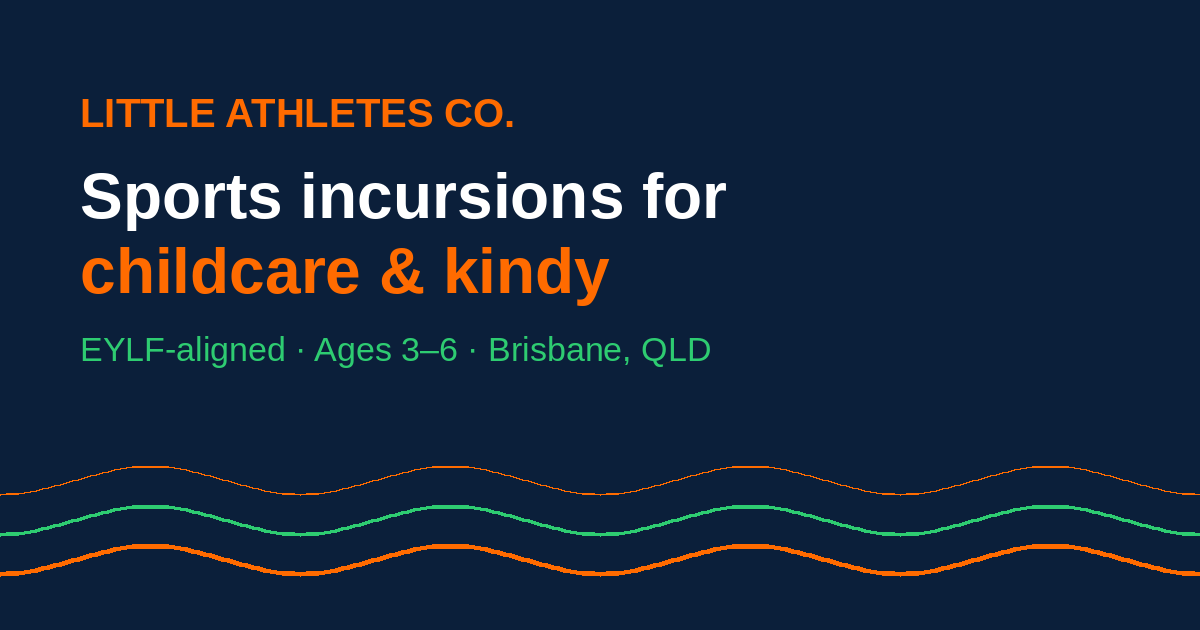
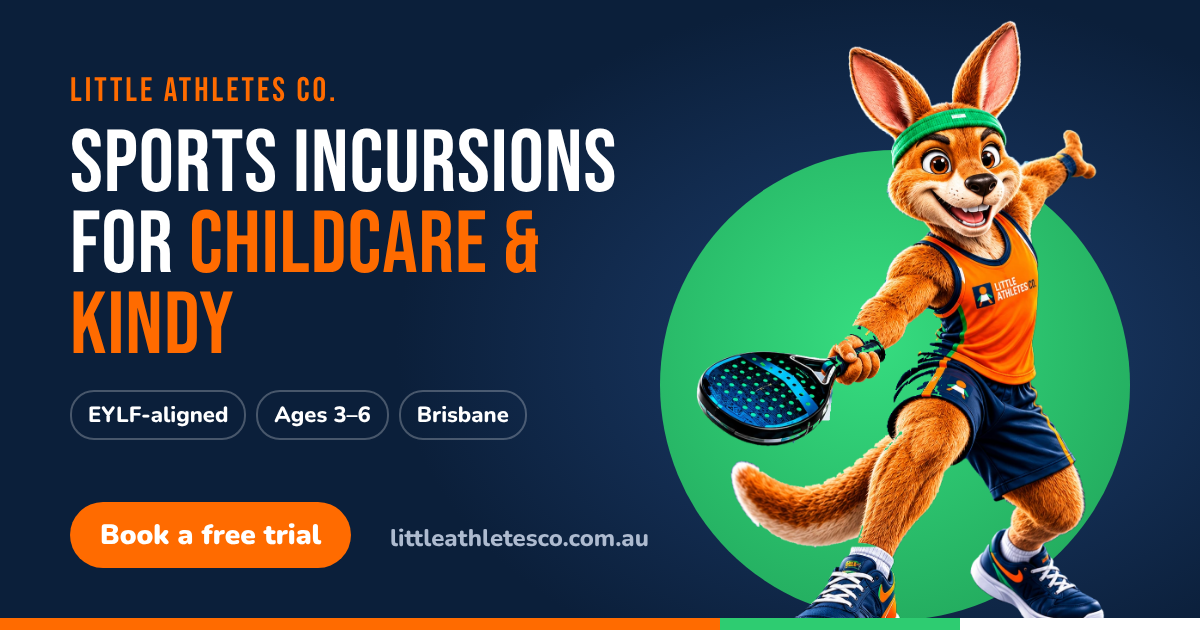
QA pass: new share image with mascot, shorter meta description, remove unused asset, sitemap date
Claude-Session: https://claude.ai/code/session_012xNJdSNKHRnMvVVeKyKEUj

diff --git a/index.html b/index.html
@@ -4,7 +4,7 @@
 <meta charset="UTF-8"/>
 <meta name="viewport" content="width=device-width, initial-scale=1.0"/>
 <title>Childcare Sports Incursions Brisbane | Little Athletes Co.</title>
-<meta name="description" content="Weekly, EYLF-aligned sports incursions for childcare centres and kindys in Brisbane. Ages 3–6, Blue Card coach, all equipment included. Book a free trial session."/>
+<meta name="description" content="Weekly, EYLF-aligned sports incursions for Brisbane childcare centres and kindys. Ages 3–6, Blue Card coach, equipment included. Book a free trial."/>
 <meta name="robots" content="index, follow"/>
 <link rel="canonical" href="https://littleathletesco.com.au/"/>
 <meta name="theme-color" content="#0B1F3A"/>
